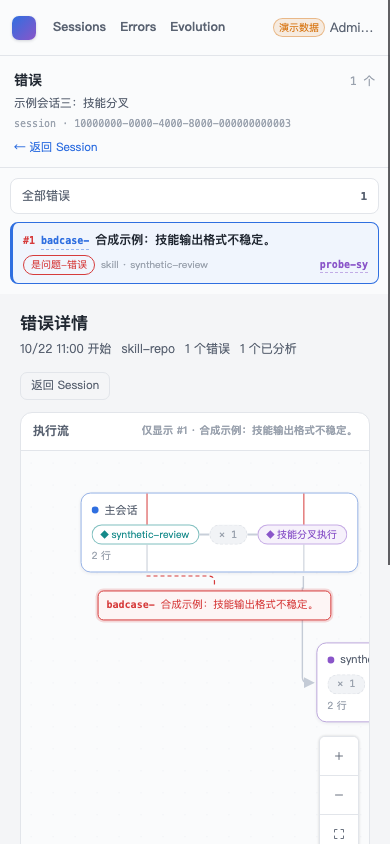
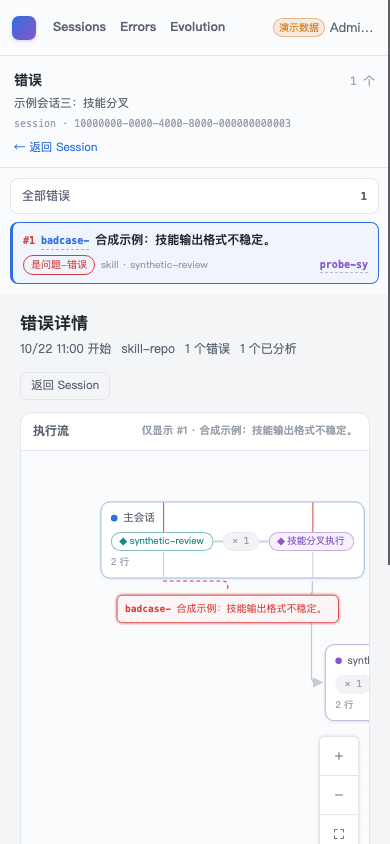
test(web): validate error detail on final head (#49)

Changed region(s): [[0.1846, 0.5853, 0.9538, 0.8626]]

diff --git a/reports/2026-10-26/m4-04-error-detail/smoke-report.html b/reports/2026-10-26/m4-04-error-detail/smoke-report.html
@@ -75,7 +75,7 @@
 <body>
 <main>
   <header class="hero">
-    <p class="eyebrow">Harness Evolution · PR #120 · validation on 13333e7</p>
+    <p class="eyebrow">Harness Evolution · PR #120 · validation on 0c91e3e</p>
     <h1>M4-04 错误详情与归因集成冒烟报告</h1>
     <p class="summary">在临时 SQLite、真实 FastAPI/Vite 与 Google Chrome 上完成错误详情工作台集成验证。冒烟发现并修复跨 Session 409 重复英文 toast、错误卡缺少归因报告深链以及画布泄漏裸布局诊断三项缺陷；最终提交同时移除原型没有的“问题 ID”标签，并把归因结论改成 14px 结论值与状态 chip。15 个 CDP 场景与 2 个原生 Computer Use 场景全部通过，原型结构、双向联动、深链恢复、加载/错误/重试、归属校验、响应式布局及控制台清洁度均有证据。</p>
     <span class="meta">2026-10-26/27 · macOS · Google Chrome · FastAPI + Vite + SQLite</span>
@@ -84,7 +84,7 @@
 
   <section>
     <div class="head"><h2>Environment and Artifact</h2><small>2026-10-26/27 · macOS · Google Chrome · FastAPI + Vite + SQLite</small></div>
-    <article class="card"><dl class="facts"><div class="fact"><dt>Issue</dt><dd>#49 · M4-04 error detail</dd></div><div class="fact"><dt>PR</dt><dd>#120</dd></div><div class="fact"><dt>Validation base</dt><dd>13333e7</dd></div><div class="fact"><dt>Evidence patch</dt><dd>final smoke report on 13333e7</dd></div><div class="fact"><dt>CI</dt><dd>GitHub Actions validates the evidence commit after push</dd></div><div class="fact"><dt>Runtime</dt><dd>FastAPI + Vite + Google Chrome</dd></div><div class="fact"><dt>Database</dt><dd>临时 SQLite fixture</dd></div><div class="fact"><dt>Evidence</dt><dd>CDP 集成断言 + 最终代码上的原生 Computer Use 截图</dd></div><div class="fact"><dt>Native capture</dt><dd>08/09 已按最终两行卡片和无诊断画布重采</dd></div></dl></article>
+    <article class="card"><dl class="facts"><div class="fact"><dt>Issue</dt><dd>#49 · M4-04 error detail</dd></div><div class="fact"><dt>PR</dt><dd>#120</dd></div><div class="fact"><dt>Validation base</dt><dd>0c91e3e</dd></div><div class="fact"><dt>Evidence patch</dt><dd>final smoke report on 0c91e3e</dd></div><div class="fact"><dt>CI</dt><dd>GitHub Actions validates the evidence commit after push</dd></div><div class="fact"><dt>Runtime</dt><dd>FastAPI + Vite + Google Chrome</dd></div><div class="fact"><dt>Database</dt><dd>临时 SQLite fixture</dd></div><div class="fact"><dt>Evidence</dt><dd>CDP 集成断言 + 最终代码上的原生 Computer Use 截图</dd></div><div class="fact"><dt>Native capture</dt><dd>08/09 已按最终两行卡片和无诊断画布重采</dd></div></dl></article>
   </section>
 
   <section>
